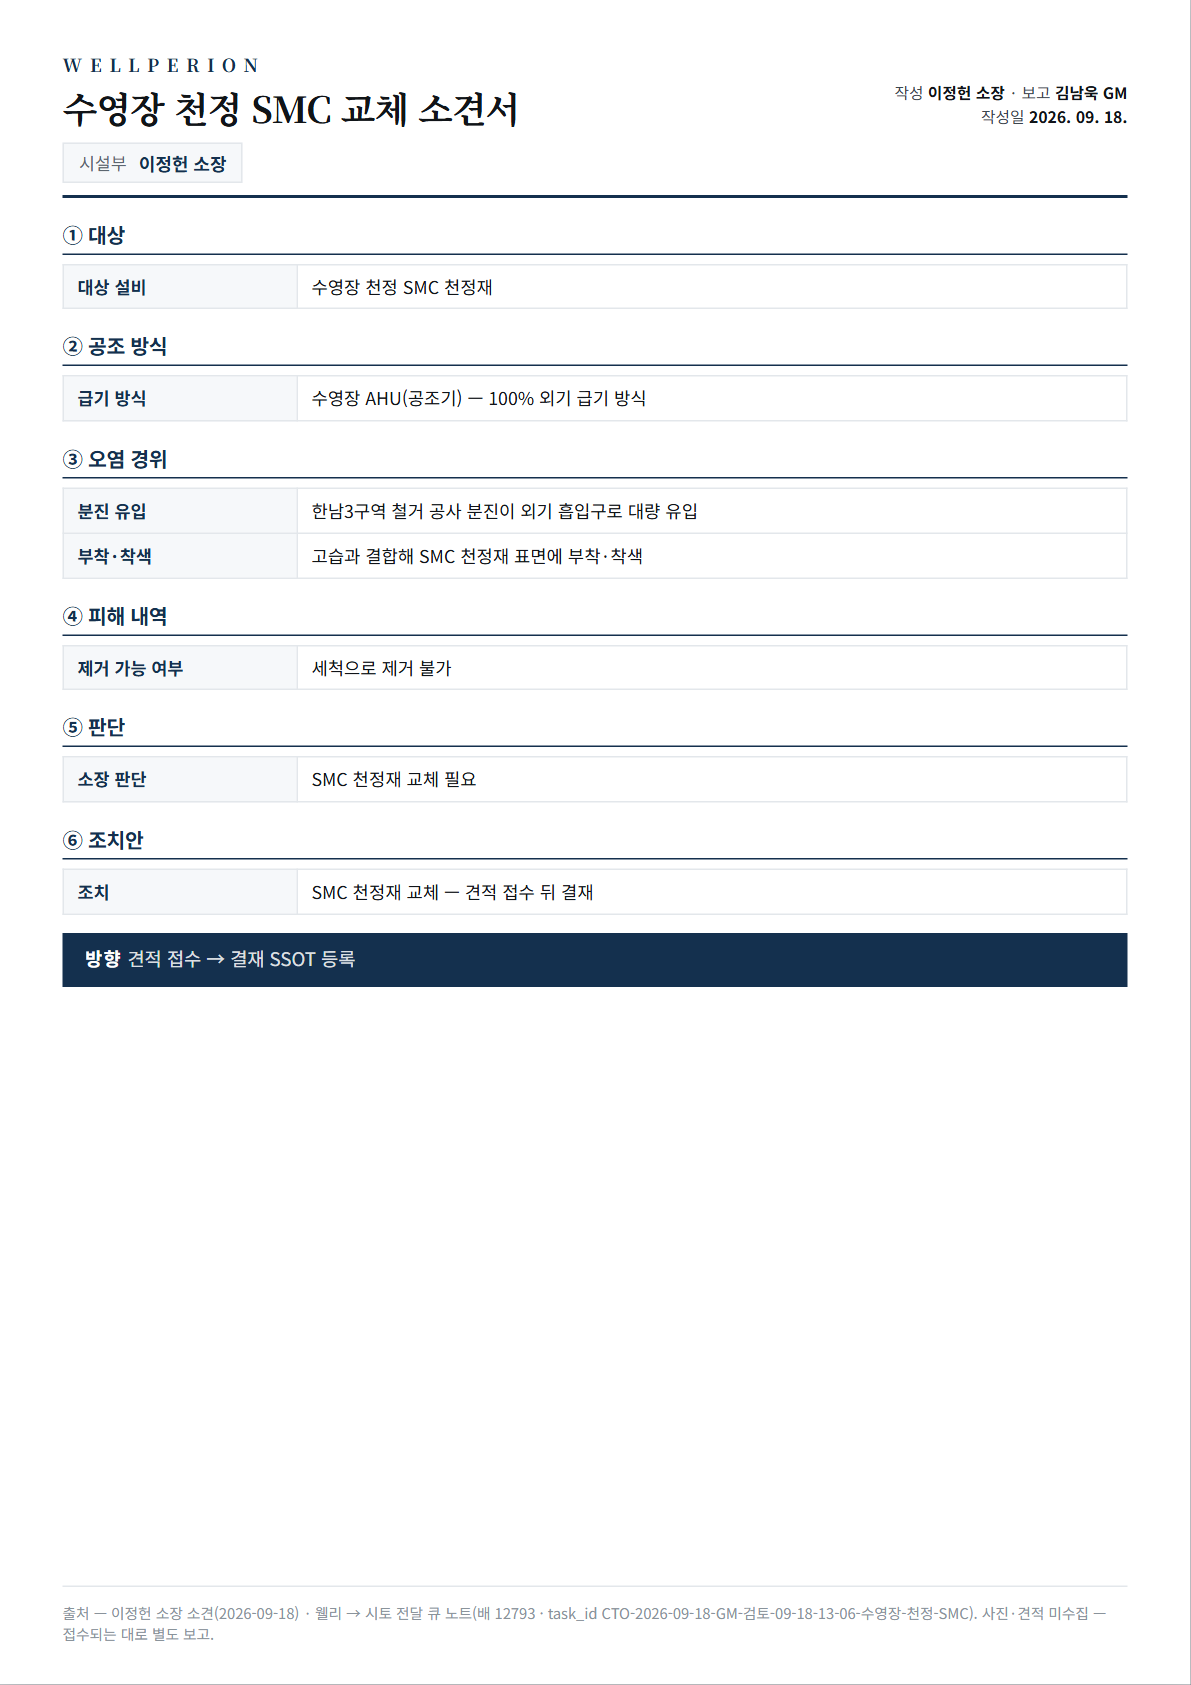
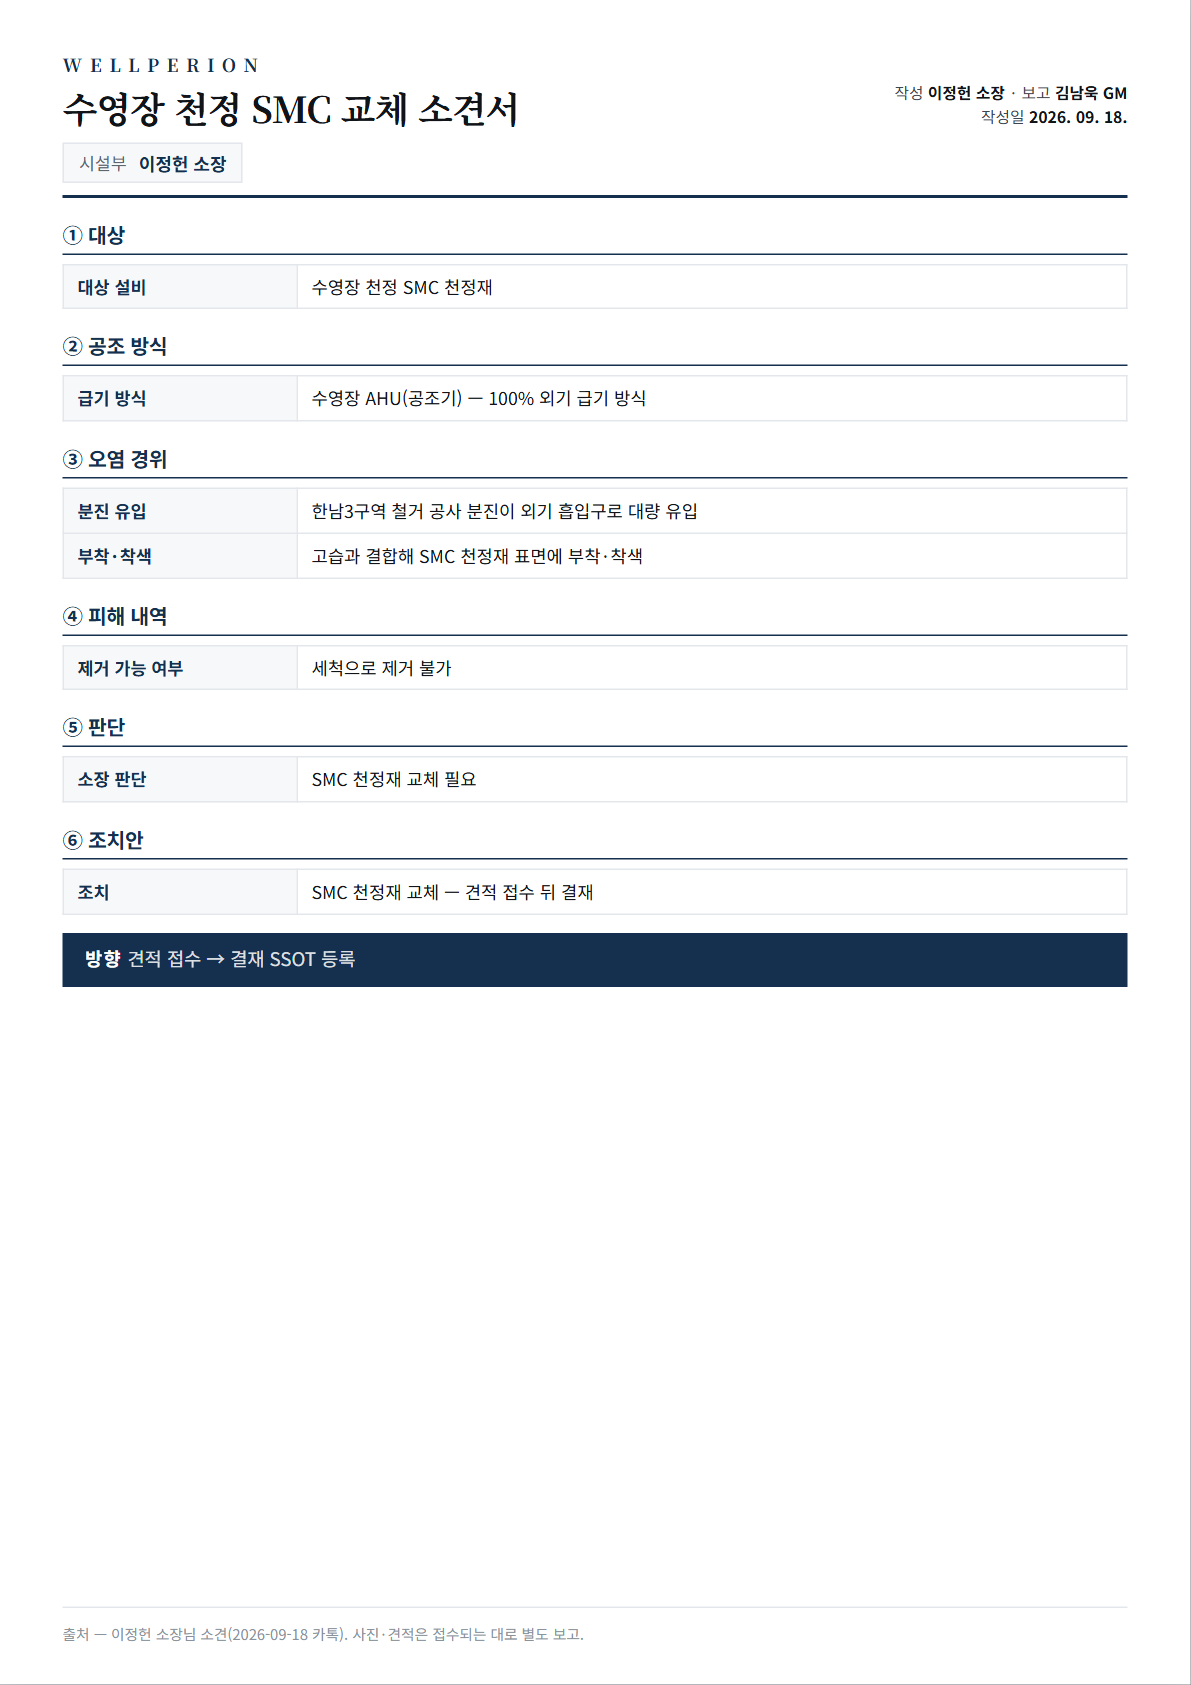
[시토] docs(facility): SMC 소견서 꼬리글 정리(내부 번호 제거)

Changed region(s): [[0.0621, 0.9567, 0.4971, 0.9875]]

diff --git a/3. 웰페리온 가이드/reports/260918_수영장_천정_SMC교체_소견서_A4.html b/3. 웰페리온 가이드/reports/260918_수영장_천정_SMC교체_소견서_A4.html
@@ -70,7 +70,7 @@ td ul li::before{ content:'·'; position:absolute; left:0; color:var(--dim); }
 
 <div class="bar">
   <b>수영장 천정 SMC 교체 소견서 (A4 1장)</b>
-  <span class="note">이정헌 소장 소견 · 배 12793</span>
+  <span class="note">이정헌 소장 소견</span>
   <span class="sp"></span>
   <button onclick="window.print()">A4 인쇄</button>
 </div>
@@ -142,7 +142,7 @@ td ul li::before{ content:'·'; position:absolute; left:0; color:var(--dim); }
   </div>
 
   <div class="foot">
-    출처 — 이정헌 소장 소견(2026-09-18) · 웰리 → 시토 전달 큐 노트(배 12793 · task_id CTO-2026-09-18-GM-검토-09-18-13-06-수영장-천정-SMC). 사진·견적 미수집 — 접수되는 대로 별도 보고.
+    출처 — 이정헌 소장님 소견(2026-09-18 카톡). 사진·견적은 접수되는 대로 별도 보고.
   </div>
 </div>
 
